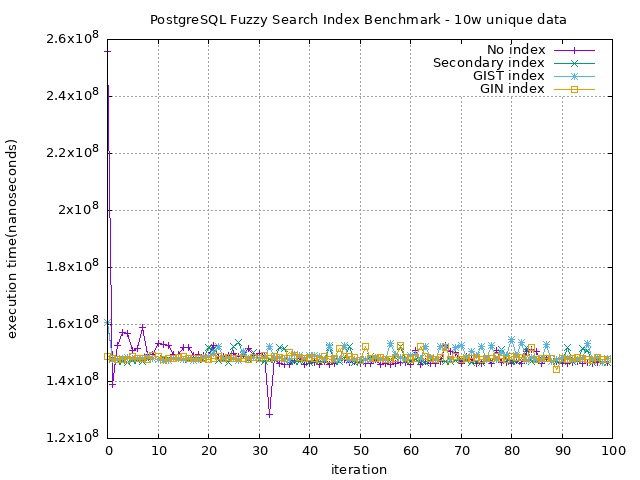
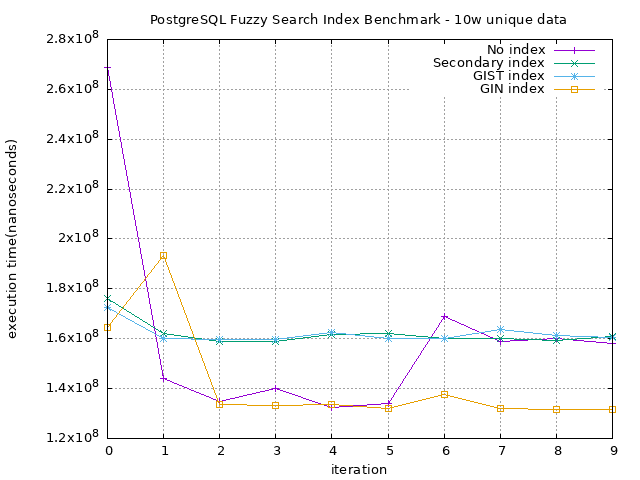
smaller iteration of unique benchmark testing

diff --git a/postgresql-gist-gin/benchmark-unique.ts b/postgresql-gist-gin/benchmark-unique.ts
@@ -1,7 +1,7 @@
 import { PrismaClient } from "@prisma/client";
 import * as fs from "fs";
 
-const ITERATION = 100;
+const ITERATION = 10;
 
 const tons = (timestamp: number[]): number => {
   return timestamp[0] * 1e9 + timestamp[1];
